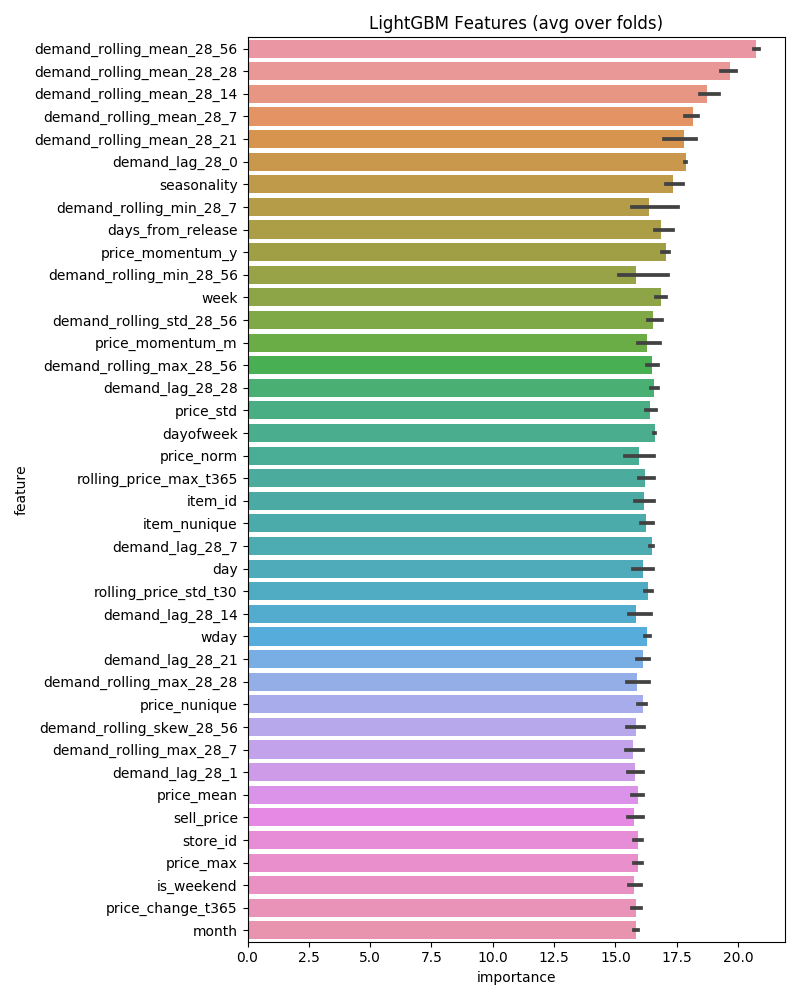
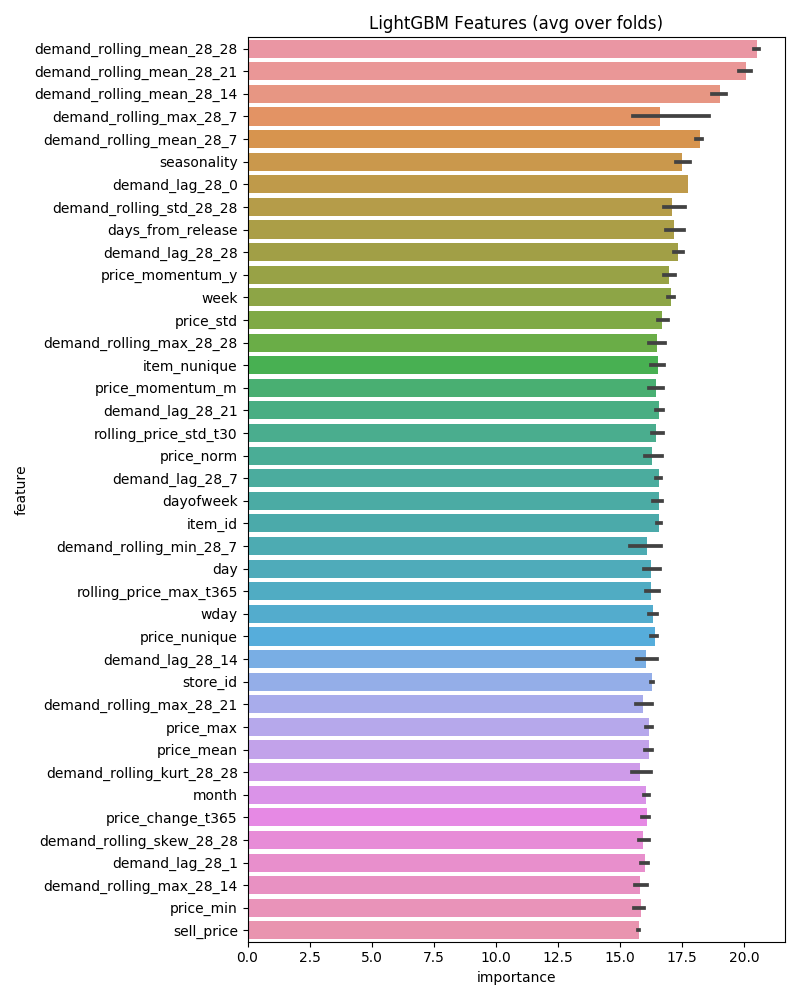
disable GPU

diff --git a/src/utils_lag.py b/src/utils_lag.py
@@ -13,11 +13,11 @@ def make_lags(df,days=28):
     df_grouped = df[['id','demand']].groupby(['id'])['demand']
 
     print('Add lag features...')
-    for i in tqdm([0,1,2,3,4,5,6,7,14,21,28]):
+    for i in tqdm([0,7,14,21,28]):
         df[f'demand_lag_{days}_{i}'] = df_grouped.shift(days+i)
 
     print('Add rolling aggs...')
-    for i in tqdm([7,14,21,28,56]):
+    for i in tqdm([7,14,21,28]):
         df[f'demand_rolling_mean_{days}_{i}'] = df_grouped.transform(lambda x: x.shift(days).rolling(i).mean())
         df[f'demand_rolling_std_{days}_{i}'] = df_grouped.transform(lambda x: x.shift(days).rolling(i).std())
         df[f'demand_rolling_max_{days}_{i}'] = df_grouped.transform(lambda x: x.shift(days).rolling(i).max())

diff --git a/src/201_cv_lgbm_28days.py b/src/201_cv_lgbm_28days.py
@@ -81,8 +81,8 @@ def kfold_lightgbm(train_df, test_df, num_folds, debug=False):
                                free_raw_data=False)
 
         params ={
-                'device' : 'gpu',
-                'gpu_use_dp':True,
+#                'device' : 'gpu',
+#                'gpu_use_dp':True,
                 'task': 'train',
                 'boosting': 'gbdt',
                 'learning_rate': 0.1,

diff --git a/src/202_cv_lgbm_21days.py b/src/202_cv_lgbm_21days.py
@@ -81,8 +81,8 @@ def kfold_lightgbm(train_df, test_df, num_folds, debug=False):
                                free_raw_data=False)
 
         params ={
-                'device' : 'gpu',
-                'gpu_use_dp':True,
+#                'device' : 'gpu',
+#                'gpu_use_dp':True,
                 'task': 'train',
                 'boosting': 'gbdt',
                 'learning_rate': 0.1,

diff --git a/src/203_cv_lgbm_14days.py b/src/203_cv_lgbm_14days.py
@@ -81,8 +81,8 @@ def kfold_lightgbm(train_df, test_df, num_folds, debug=False):
                                free_raw_data=False)
 
         params ={
-                'device' : 'gpu',
-                'gpu_use_dp':True,
+#                'device' : 'gpu',
+#                'gpu_use_dp':True,
                 'task': 'train',
                 'boosting': 'gbdt',
                 'learning_rate': 0.1,

diff --git a/src/204_cv_lgbm_7days.py b/src/204_cv_lgbm_7days.py
@@ -81,8 +81,8 @@ def kfold_lightgbm(train_df, test_df, num_folds, debug=False):
                                free_raw_data=False)
 
         params ={
-                'device' : 'gpu',
-                'gpu_use_dp':True,
+#                'device' : 'gpu',
+#                'gpu_use_dp':True,
                 'task': 'train',
                 'boosting': 'gbdt',
                 'learning_rate': 0.1,

diff --git a/src/301_train_lgbm_28days.py b/src/301_train_lgbm_28days.py
@@ -64,8 +64,8 @@ def train_lightgbm(train_df,test_df,debug=False):
 
     # params optimized by optuna
     params ={
-            'device' : 'gpu',
-            'gpu_use_dp':True,
+#            'device' : 'gpu',
+#            'gpu_use_dp':True,
             'task': 'train',
             'boosting': 'gbdt',
             'learning_rate': 0.1,

diff --git a/src/302_train_lgbm_21days.py b/src/302_train_lgbm_21days.py
@@ -64,8 +64,8 @@ def train_lightgbm(train_df,test_df,debug=False):
 
     # params optimized by optuna
     params ={
-            'device' : 'gpu',
-            'gpu_use_dp':True,
+#            'device' : 'gpu',
+#            'gpu_use_dp':True,
             'task': 'train',
             'boosting': 'gbdt',
             'learning_rate': 0.1,

diff --git a/src/303_train_lgbm_14days.py b/src/303_train_lgbm_14days.py
@@ -64,8 +64,8 @@ def train_lightgbm(train_df,test_df,debug=False):
 
     # params optimized by optuna
     params ={
-            'device' : 'gpu',
-            'gpu_use_dp':True,
+#            'device' : 'gpu',
+#            'gpu_use_dp':True,
             'task': 'train',
             'boosting': 'gbdt',
             'learning_rate': 0.1,

diff --git a/src/304_train_lgbm_7days.py b/src/304_train_lgbm_7days.py
@@ -64,8 +64,8 @@ def train_lightgbm(train_df,test_df,debug=False):
 
     # params optimized by optuna
     params ={
-            'device' : 'gpu',
-            'gpu_use_dp':True,
+#            'device' : 'gpu',
+#            'gpu_use_dp':True,
             'task': 'train',
             'boosting': 'gbdt',
             'learning_rate': 0.1,
